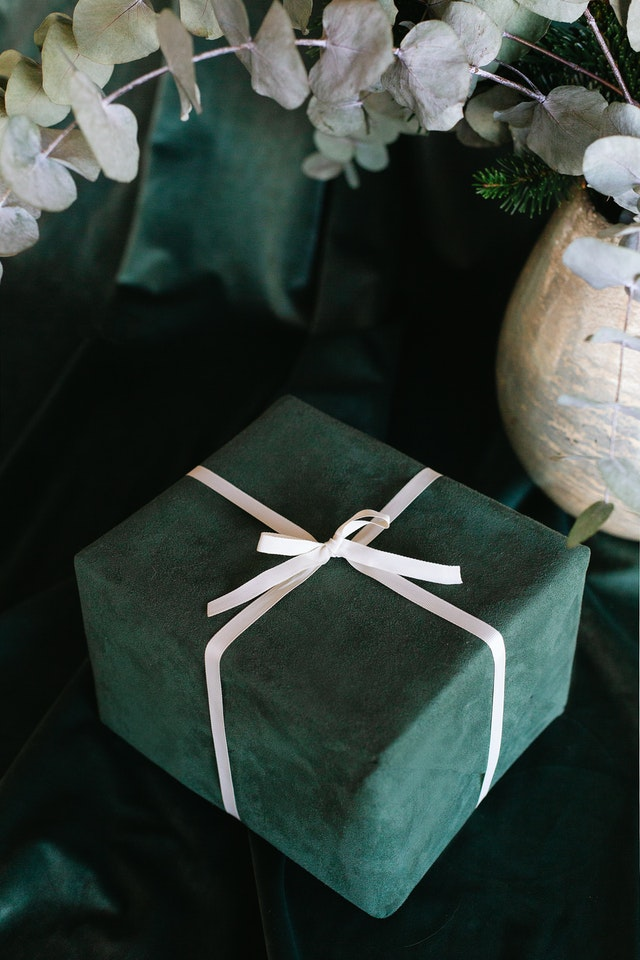
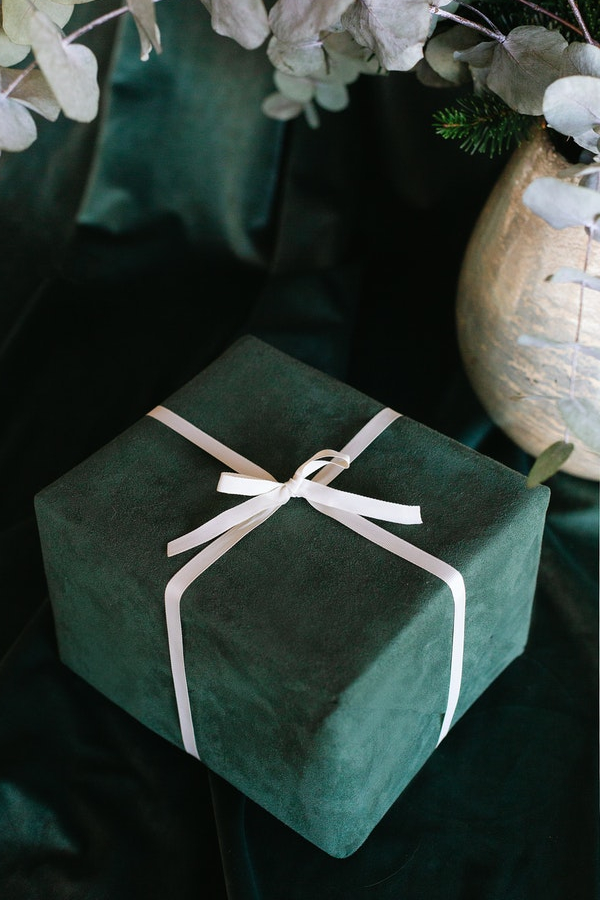
photo style fix, before photo add & nav style fix

diff --git a/pages/our-walks.html b/pages/our-walks.html
@@ -18,20 +18,22 @@
     <link rel="preconnect" href="https://fonts.gstatic.com">
     <link href="https://fonts.googleapis.com/css2?family=Berkshire+Swash&display=swap" rel="stylesheet"> 
 
-    <link href="../styles/style.css" rel="stylesheet">
+    <link href="../styles/style_1.css" rel="stylesheet">
     <link href="../styles/our-walks.css" rel="stylesheet">
 </head>
 <body>
     <header class="header">
         <nav>
+            <div class="header__logo">
+                <a href="../index.html"><img src="../images/logo_bez_tla1.webp"></a>
+            </div>
             <ul class="header__navbar">
-                <li class="header__nav-item"><a href="who-we-are.html">Kim jesteśmy</a></li>
-                <li class="header__nav-item active"><a href="our-walks.html">Nasze spacery</a></li>
-                <li class="header__nav-item"><a href="our-boxes.html">Czechy z pudełka</a></li>
-                <li class="header__nav-logo"><a href="../index.html"><img src="../images/logo_bez_tla1.webp"></a></li>
-                <li class="header__nav-item"><a href="my-story.html">Moja historia</a></li>
-                <li class="header__nav-item"><a href="blog.html">Blog</a></li>
-                <li class="header__nav-item"><a href="contact.html">Kontakt</a></li>
+                <li class="header__nav-item"><a href="../pages/who-we-are.html">Kim jesteśmy</a></li>
+                <li class="header__nav-item"><a href="../pages/our-walks.html">Nasze spacery</a></li>
+                <li class="header__nav-item"><a href="../pages/our-boxes.html">Czechy z pudełka</a></li>
+                <li class="header__nav-item"><a href="../pages/my-story.html">Moja historia</a></li>
+                <li class="header__nav-item"><a href="../pages/blog.html">Blog</a></li>
+                <li class="header__nav-item"><a href="../pages/contact.html">Kontakt</a></li>
                 <li class="header__nav-menu"><i class="fas fa-bars"></i></li> 
             </ul>
         </nav>
@@ -49,8 +51,10 @@
         <article class="walks">
             <ul class="walks__walks-list">
                 <li class="walks__walk-item">
-                    <div class="walks__walk-item--photo" style>
-                        <img src="../images/walk_4.jpg"></img>
+                    <div class="walks__walk-item--photo">
+                        <div class="walks__walk-item--photo-container" style="background: url('../images/walk_4.jpg')">
+                            <!-- <img src="../images/walk_4.jpg"></img> -->
+                        </div>
                     </div>
                     <div class="walks__walk-item--description">
                         <h2>Kawiarnianym szlakiem praskiej bohemy</h2>
@@ -75,13 +79,15 @@
                             </div>
                         </div>
                         <div class="walks__walk-item--price"><p>100 PLN</p>
-                            <button id="add-to-cart-btn">REZERWACJA</button>
+                            <button class="walks__walk-item--reserve-btn">REZERWACJA</button>
                         </div>
                     </div>
                 </li>
                 <li class="walks__walk-item">
                     <div class="walks__walk-item--photo" style>
-                        <img src="../images/walk_2.jpg"></img>
+                        <div class="walks__walk-item--photo-container" style="background: url('../images/walk_2.jpg')">
+                        <!-- <img src="../images/walk_2.jpg"></img> -->
+                        </div>
                     </div>
                     <div class="walks__walk-item--description">
                         <h2>Smakowitym szlakiem chlebíčků, czyli jak (nie)zwykłe kanapki zapisały się do czeskich dziejów</h2>
@@ -103,13 +109,15 @@
                             </div>
                         </div>
                         <div class="walks__walk-item--price"><p>100 PLN</p>
-                            <button id="add-to-cart-btn">REZERWACJA</button>
+                            <button class="walks__walk-item--reserve-btn">REZERWACJA</button>
                         </div>
                     </div>
                 </li>
                 <li class="walks__walk-item">
-                    <div class="walks__walk-item--photo" style>
-                        <img src="../images/walk_5.jpg"></img>
+                    <div class="walks__walk-item--photo">
+                        <div class="walks__walk-item--photo-container" style="background: url('../images/walk_5.jpg')">
+                            <!-- <img src="../images/walk_5.jpg"></img> -->
+                        </div>
                     </div>
                     <div class="walks__walk-item--description">
                         <h2>Piwnym szlakiem praskich "czwórek"</h2>
@@ -132,13 +140,15 @@
                             </div>
                         </div>
                         <div class="walks__walk-item--price"><p>100 PLN</p>
-                            <button id="add-to-cart-btn">REZERWACJA</button>
+                            <button class="walks__walk-item--reserve-btn">REZERWACJA</button>
                         </div>
                     </div>
                 </li>
                 <li class="walks__walk-item">
-                    <div class="walks__walk-item--photo" style>
-                        <img src="../images/walk_6.jpg"></img>
+                    <div class="walks__walk-item--photo">
+                        <div class="walks__walk-item--photo-container" style="background: url('../images/walk_6.jpg')">
+                            <!-- <img src="../images/walk_6.jpg"></img> -->
+                        </div>
                     </div>
                     <div class="walks__walk-item--description">
                         <h2>Libeňski Slalom czyli Hrabal, piwo i nie tylko</h2>
@@ -162,7 +172,7 @@
                             </div>
                         </div>
                         <div class="walks__walk-item--price"><p>100 PLN</p>
-                            <button id="add-to-cart-btn">REZERWACJA</button>
+                            <button class="walks__walk-item--reserve-btn">REZERWACJA</button>
                         </div>
                     </div>
                 </li>

diff --git a/pages/our-boxes.html b/pages/our-boxes.html
@@ -19,21 +19,24 @@
     <link rel="preconnect" href="https://fonts.gstatic.com">
     <link href="https://fonts.googleapis.com/css2?family=Berkshire+Swash&display=swap" rel="stylesheet"> 
 
-    <link href="../styles/style.css" rel="stylesheet">
+    <link href="../styles/style_1.css" rel="stylesheet">
     <link href="../styles/our-boxes.css" rel="stylesheet">
     
 </head>
 <body>
     <header class="header">
         <nav>
+            <div class="header__logo">
+                <a href="../index.html"><img src="../images/logo_bez_tla1.webp"></a>
+            </div>
             <ul class="header__navbar">
-                <li class="header__nav-item"><a href="who-we-are.html">Kim jesteśmy</a></li>
-                <li class="header__nav-item"><a href="our-walks.html">Nasze spacery</a></li>
-                <li class="header__nav-item active"><a href="our-boxes.html">Czechy z pudełka</a></li>
-                <li class="header__nav-item"><a href="../index.html"><img src="../images/logo.webp"></a></li>
-                <li class="header__nav-item"><a href="my-story.html">Moja historia</a></li>
-                <li class="header__nav-item"><a href="blog.html">Blog</a></li>
-                <li class="header__nav-item"><a href="contact.html">Kontakt</a></li>
+                <li class="header__nav-item"><a href="../pages/who-we-are.html">Kim jesteśmy</a></li>
+                <li class="header__nav-item"><a href="../pages/our-walks.html">Nasze spacery</a></li>
+                <li class="header__nav-item"><a href="../pages/our-boxes.html">Czechy z pudełka</a></li>
+                <li class="header__nav-item"><a href="../pages/my-story.html">Moja historia</a></li>
+                <li class="header__nav-item"><a href="../pages/blog.html">Blog</a></li>
+                <li class="header__nav-item"><a href="../pages/contact.html">Kontakt</a></li>
+                <li class="header__nav-menu"><i class="fas fa-bars"></i></li> 
             </ul>
         </nav>
     </header>
@@ -50,6 +53,6 @@
         <article id="boxes" class="boxes">
         </article>
     </section>
-    <footer>Stopka</footer>
+    <footer>Wszelkie prawa zastrzeżone</footer>
 </body>
 </html>

diff --git a/pages/my-story.html b/pages/my-story.html
@@ -17,21 +17,23 @@
     <link rel="preconnect" href="https://fonts.gstatic.com">
     <link href="https://fonts.googleapis.com/css2?family=Berkshire+Swash&display=swap" rel="stylesheet"> 
 
-    <link href="../styles/style.css" rel="stylesheet">
+    <link href="../styles/style_1.css" rel="stylesheet">
     <link href="../styles/my-story.css" rel="stylesheet">
     <script src="https://kit.fontawesome.com/cd128beae1.js" crossorigin="anonymous"></script>
 </head>
 <body>
     <header class="header">
         <nav>
+            <div class="header__logo">
+                <a href="../index.html"><img src="../images/logo_bez_tla1.webp"></a>
+            </div>
             <ul class="header__navbar">
-                <li class="header__nav-item"><a href="who-we-are.html">Kim jesteśmy</a></li>
-                <li class="header__nav-item"><a href="our-walks.html">Nasze spacery</a></li>
-                <li class="header__nav-item"><a href="our-boxes.html">Czechy z pudełka</a></li>
-                <li class="header__nav-logo"><a href="../index.html"><img src="../images/logo_bez_tla1.webp"></a></li>
-                <li class="header__nav-item active"><a href="my-story.html">Moja historia</a></li>
-                <li class="header__nav-item"><a href="blog.html">Blog</a></li>
-                <li class="header__nav-item"><a href="contact.html">Kontakt</a></li>
+                <li class="header__nav-item"><a href="../pages/who-we-are.html">Kim jesteśmy</a></li>
+                <li class="header__nav-item"><a href="../pages/our-walks.html">Nasze spacery</a></li>
+                <li class="header__nav-item"><a href="../pages/our-boxes.html">Czechy z pudełka</a></li>
+                <li class="header__nav-item"><a href="../pages/my-story.html">Moja historia</a></li>
+                <li class="header__nav-item"><a href="../pages/blog.html">Blog</a></li>
+                <li class="header__nav-item"><a href="../pages/contact.html">Kontakt</a></li>
                 <li class="header__nav-menu"><i class="fas fa-bars"></i></li> 
             </ul>
         </nav>

diff --git a/styles/our-walks.css b/styles/our-walks.css
@@ -23,13 +23,35 @@
 .walks__walk-item--photo {
     /* background-color: pink; */
     /* text-align: center; */
+    
 }
 
 .walks__walk-item--photo img {
-    width: 470px;
+    /* width: 470px; */
+    /* height: 100%; */
     /* object-fit: none; */
-    object-position: right bottom;
+    /* object-position: right bottom; */
     /* align-self: flex-start; */
+}
+
+.walks__walk-item--photo-container {
+    width: 470px;
+    height: 700px;
+    object-fit: none;
+    background-size: cover;
+    /* object-position: right bottom; */
+    /* align-self: flex-start; */
+    position: relative
+}
+
+.walks__walk-item--photo-container::before {
+    content: "";
+    position: absolute;
+    top: 10px;
+    bottom: 10px;
+    left: 10px;
+    right: 10px;
+    border: 2px solid var(--secondary-color);
 }
 
 .walks__walk-item--description {
@@ -46,7 +68,7 @@
     margin-top: 1em;
 }
 
-.walks__walk-item--description button {
+.walks__walk-item--reserve-btn {
     display: flex;
     align-items: center;
     justify-content: center;
@@ -86,12 +108,9 @@
     padding: 0 1.5em;
     margin: 1em;
     border: 2px dotted black;
-    /* text-align: center; */
-    /* vertical-align: middle; */
-    /* align-self: flex-end; */
 }
 
-.walks__walk-item--price{
+.walks__walk-item--price {
     display: flex;
     justify-content: space-between;
     align-items: center;

diff --git a/styles/our-boxes.css b/styles/our-boxes.css
@@ -19,16 +19,36 @@
     /* align-items: center; */
 }
 
+.boxes__box-item--photo-container {
+    width: 470px;
+    height: 700px;
+    object-fit: none;
+    background-size: cover;
+    object-position: right bottom;
+    /* align-self: flex-start; */
+    position: relative
+}
+
+.boxes__box-item--photo-container::before {
+    content: "";
+    position: absolute;
+    top: 10px;
+    bottom: 10px;
+    left: 10px;
+    right: 10px;
+    border: 2px solid var(--secondary-color);
+}
+
 .boxes__box-photo {
     /* background-color: pink; */
     /* text-align: center; */
 }
 
-.boxes__box-photo img {
+/* .boxes__box-photo img {
     width: 470px;
     object-fit: none;
     object-position: right bottom;
-}
+} */
 
 .boxes__box-description {
     /* background-color: green; */

diff --git a/ProductsList.js b/ProductsList.js
@@ -16,8 +16,9 @@ const ProductsList = {
 		return `<ul class="boxes__boxes-list">
                 ${products.map(product =>
                     `<li key="${product.id}" class="boxes__box-item">
-                        <div class="boxes__box-photo" style>
-                            <img src="${product.photo}"></img>
+                        <div class="boxes__box-photo">
+                            <div class="boxes__box-item--photo-container" style="background: url('../${product.photo}')">
+                            </div>
                         </div>
                         <div class="boxes__box-description">
                             <h2>${product.name}</h2>

diff --git a/styles/my-story.css b/styles/my-story.css
@@ -30,7 +30,7 @@
 .my-story__part--photo img {
     width: 470px;
     /* object-fit: none; */
-    object-position: right bottom;
+    /* object-position: right bottom; */
     /* align-self: flex-start; */
 }
 
@@ -49,7 +49,7 @@
     flex-direction: column;
     /* justify-content: space-around; */
     /* padding: 1.5em 0; */
-    padding: 1em;
+    padding: 2em 1em;
     border-top:  2px solid var(--secondary-color);
 }
 
